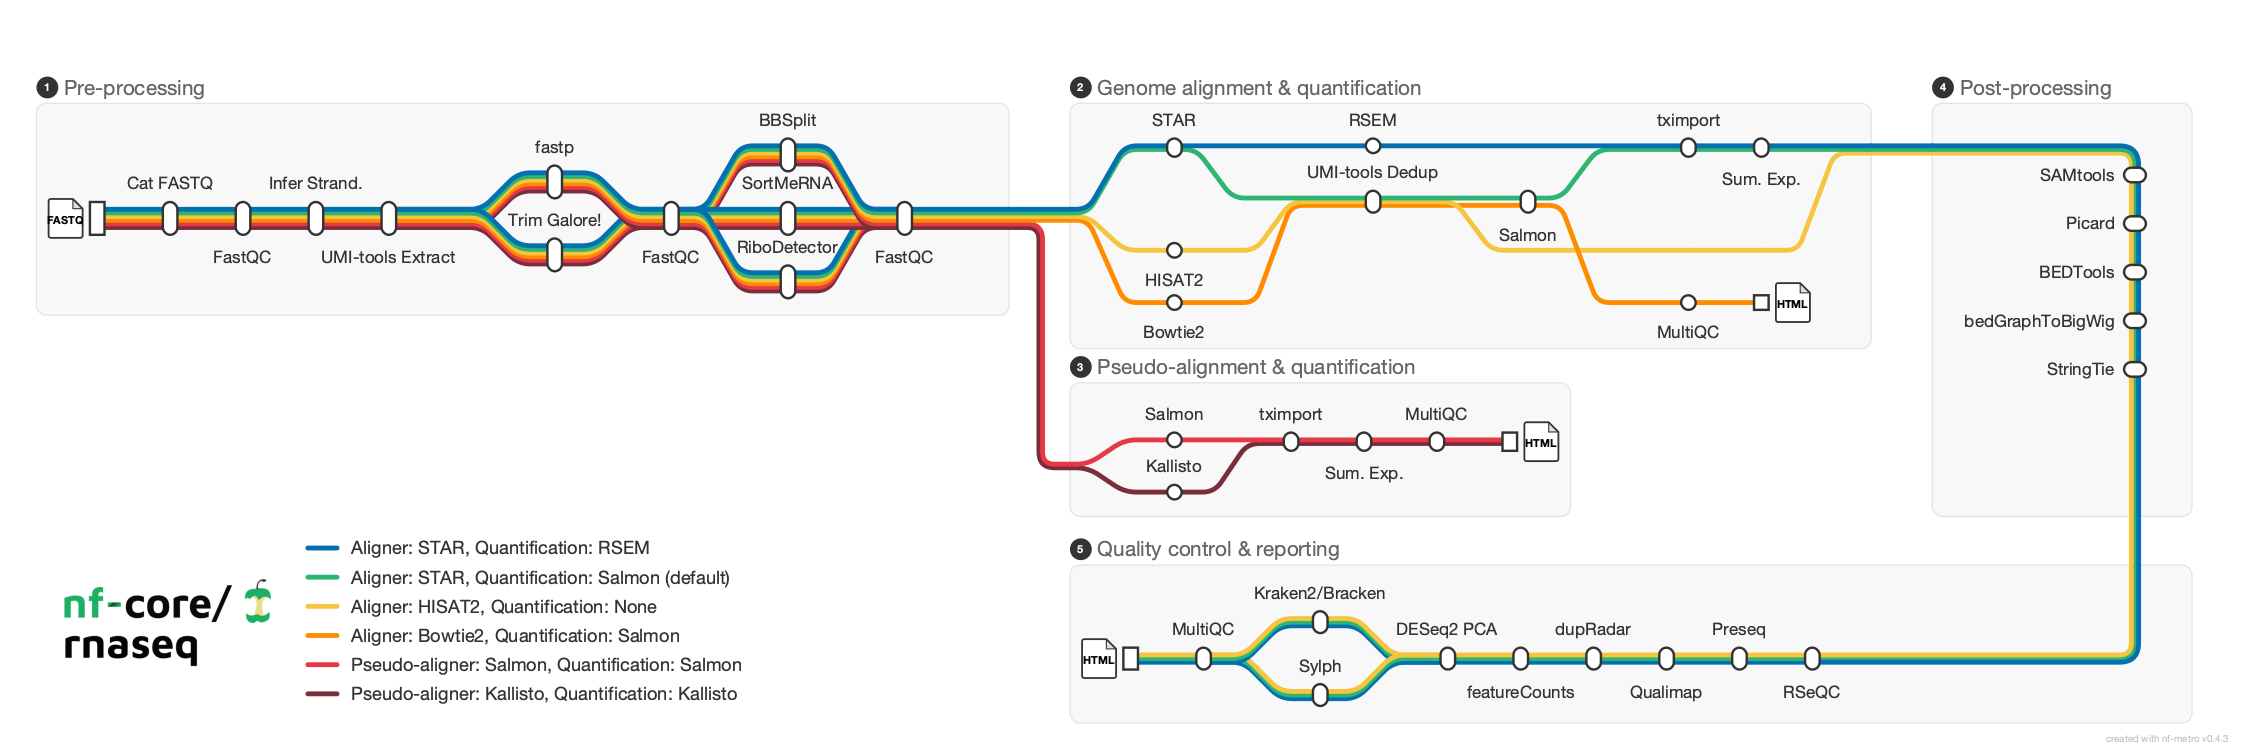
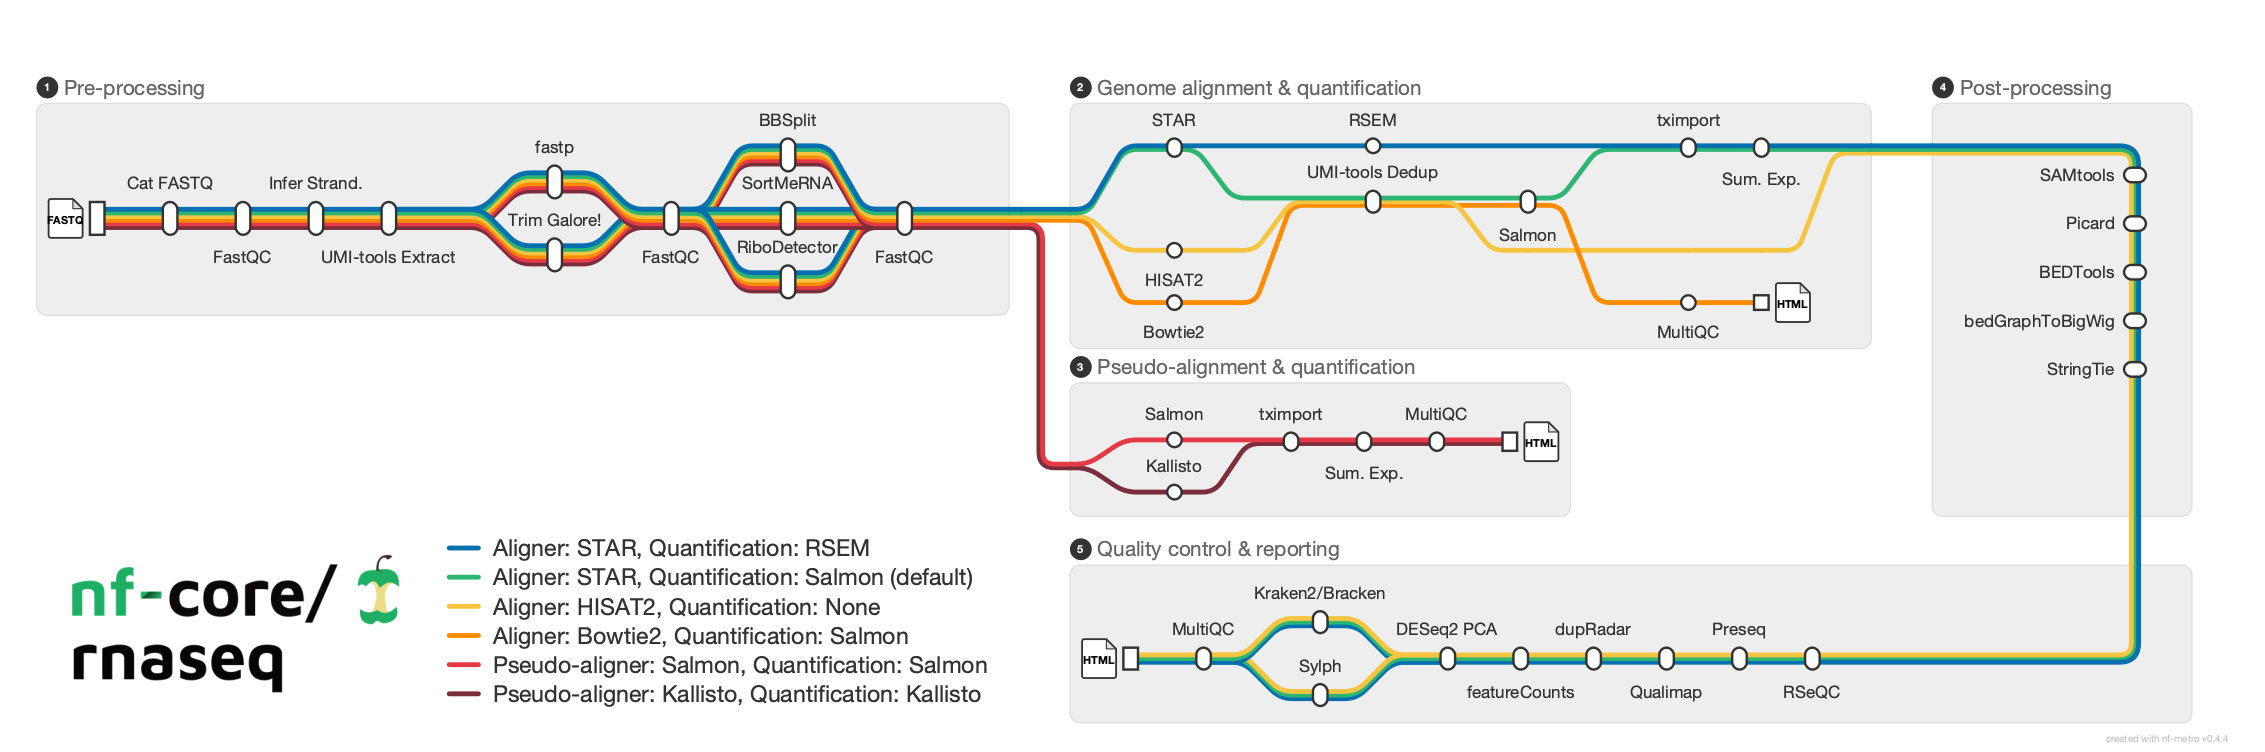
docs: regenerate metro map renders with nf-metro v0.4.4
Larger legend font, bigger logo, more visible section backgrounds.

Changed region(s): [[0.0309, 0.7035, 0.4327, 0.9481]]

diff --git a/CHANGELOG.md b/CHANGELOG.md
@@ -28,7 +28,7 @@ Special thanks to the following for their contributions to the release:
 - [PR #1667](https://github.com/nf-core/rnaseq/pull/1667) - Enhance RSEM output exports and remove unnecessary star_rsem check
 - [PR #1669](https://github.com/nf-core/rnaseq/pull/1669) - Enable SeqKit stats MultiQC module for RiboDetector rRNA removal
 - [PR #1672](https://github.com/nf-core/rnaseq/pull/1672) - Document star_rsem STAR aligner settings and customization
-- [PR #1709](https://github.com/nf-core/rnaseq/pull/1709) - Update metro map renders with nf-metro v0.4.3; add source `.mmd` file and regeneration instructions to CONTRIBUTING.md
+- [PR #1709](https://github.com/nf-core/rnaseq/pull/1709) - Update metro map renders with nf-metro v0.4.4; add source `.mmd` file and regeneration instructions to CONTRIBUTING.md
 - [PR #1677](https://github.com/nf-core/rnaseq/pull/1677) - Apply Nextflow 25 strict syntax fixes
 - [PR #1685](https://github.com/nf-core/rnaseq/pull/1685) - Add GPU-accelerated STAR alignment and mark duplicates using NVIDIA Parabricks rna_fq2bam (`--use_parabricks_star`)
 - [PR #1686](https://github.com/nf-core/rnaseq/pull/1686) - Add support for uncompressed FASTQ input files ([#1343](https://github.com/nf-core/rnaseq/issues/1343))
